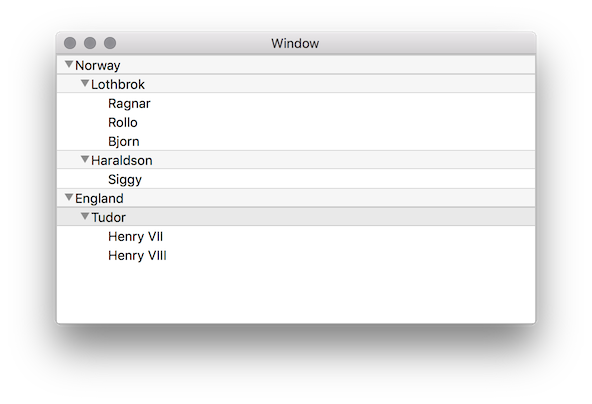
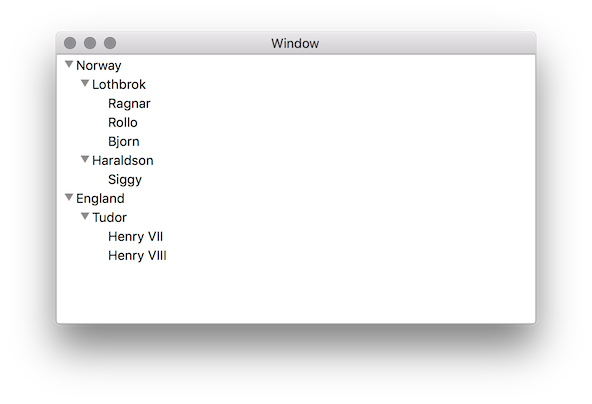
Removed “isGroupItem”.

Changed region(s): [[0.0912, 0.1485, 0.9122, 0.2376], [0.0912, 0.4752, 0.9122, 0.5644], [0.152, 0.3564, 0.2736, 0.4158]]

diff --git a/NSOutlineView/NSOutlineView/ViewController.swift b/NSOutlineView/NSOutlineView/ViewController.swift
@@ -95,6 +95,7 @@ class ViewController: NSViewController, NSOutlineViewDelegate, NSOutlineViewData
         }
     }
     
+  /*
     func outlineView(_ outlineView: NSOutlineView, isGroupItem item: Any) -> Bool {
         switch item {
         case let country as Country:
@@ -105,6 +106,7 @@ class ViewController: NSViewController, NSOutlineViewDelegate, NSOutlineViewData
             return false
         }
     }
+    */
     
     func outlineView(_ outlineView: NSOutlineView, viewFor tableColumn: NSTableColumn?, item: Any) -> NSView? {
         switch item {
